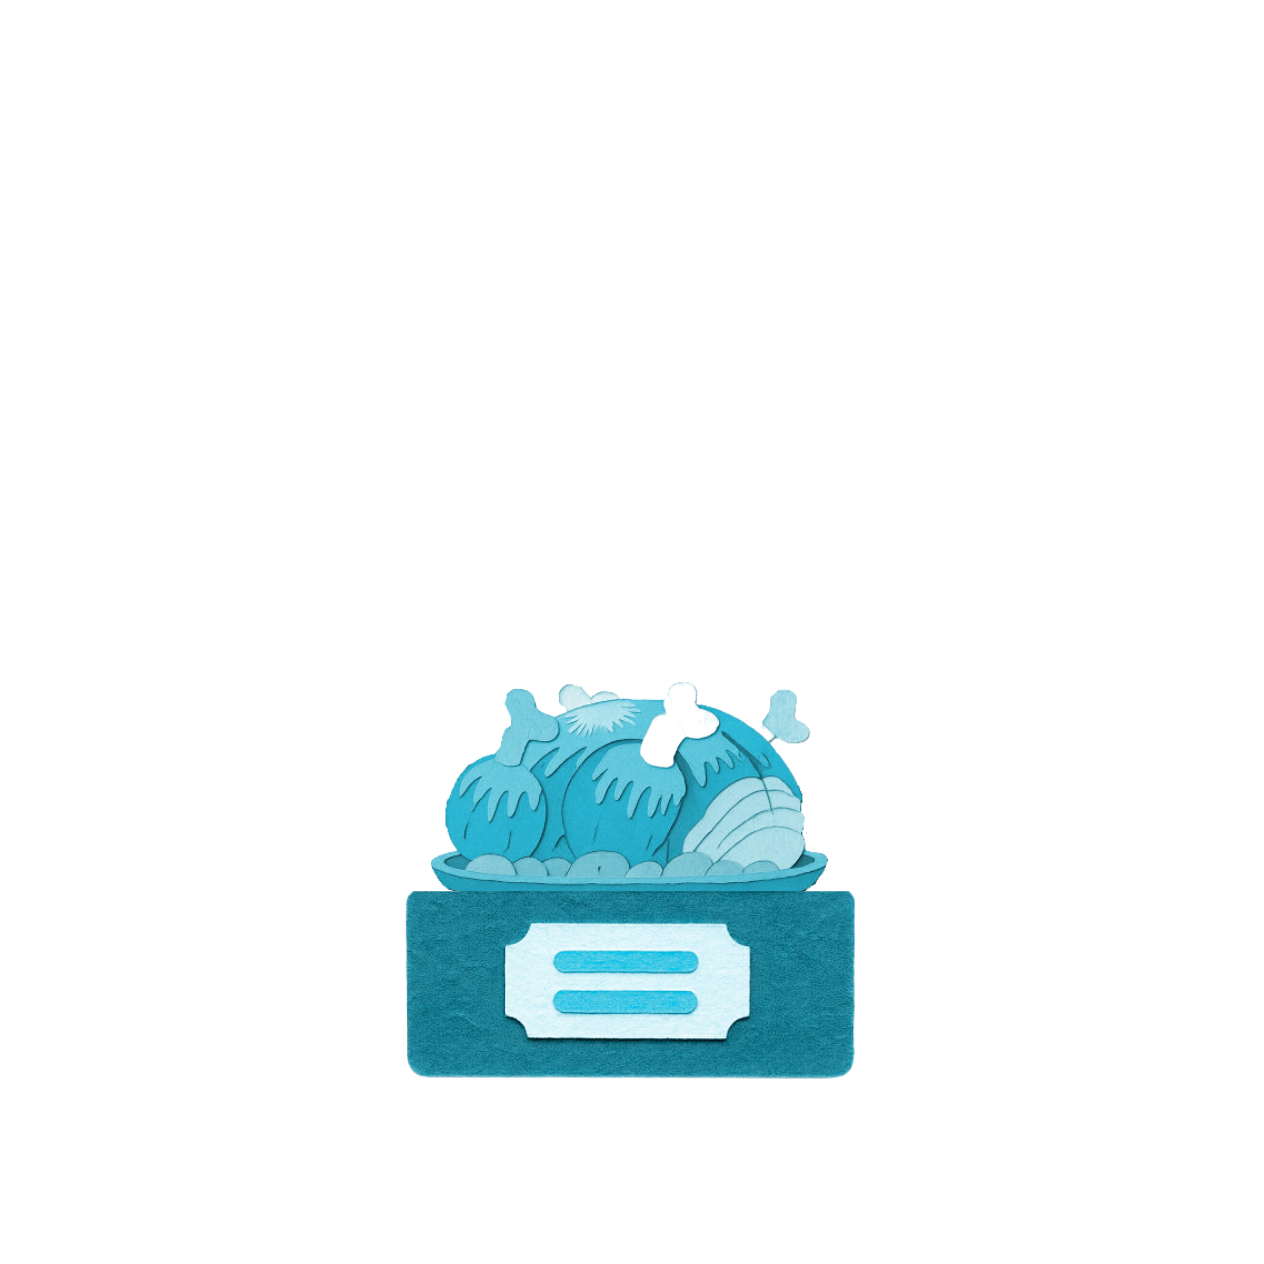
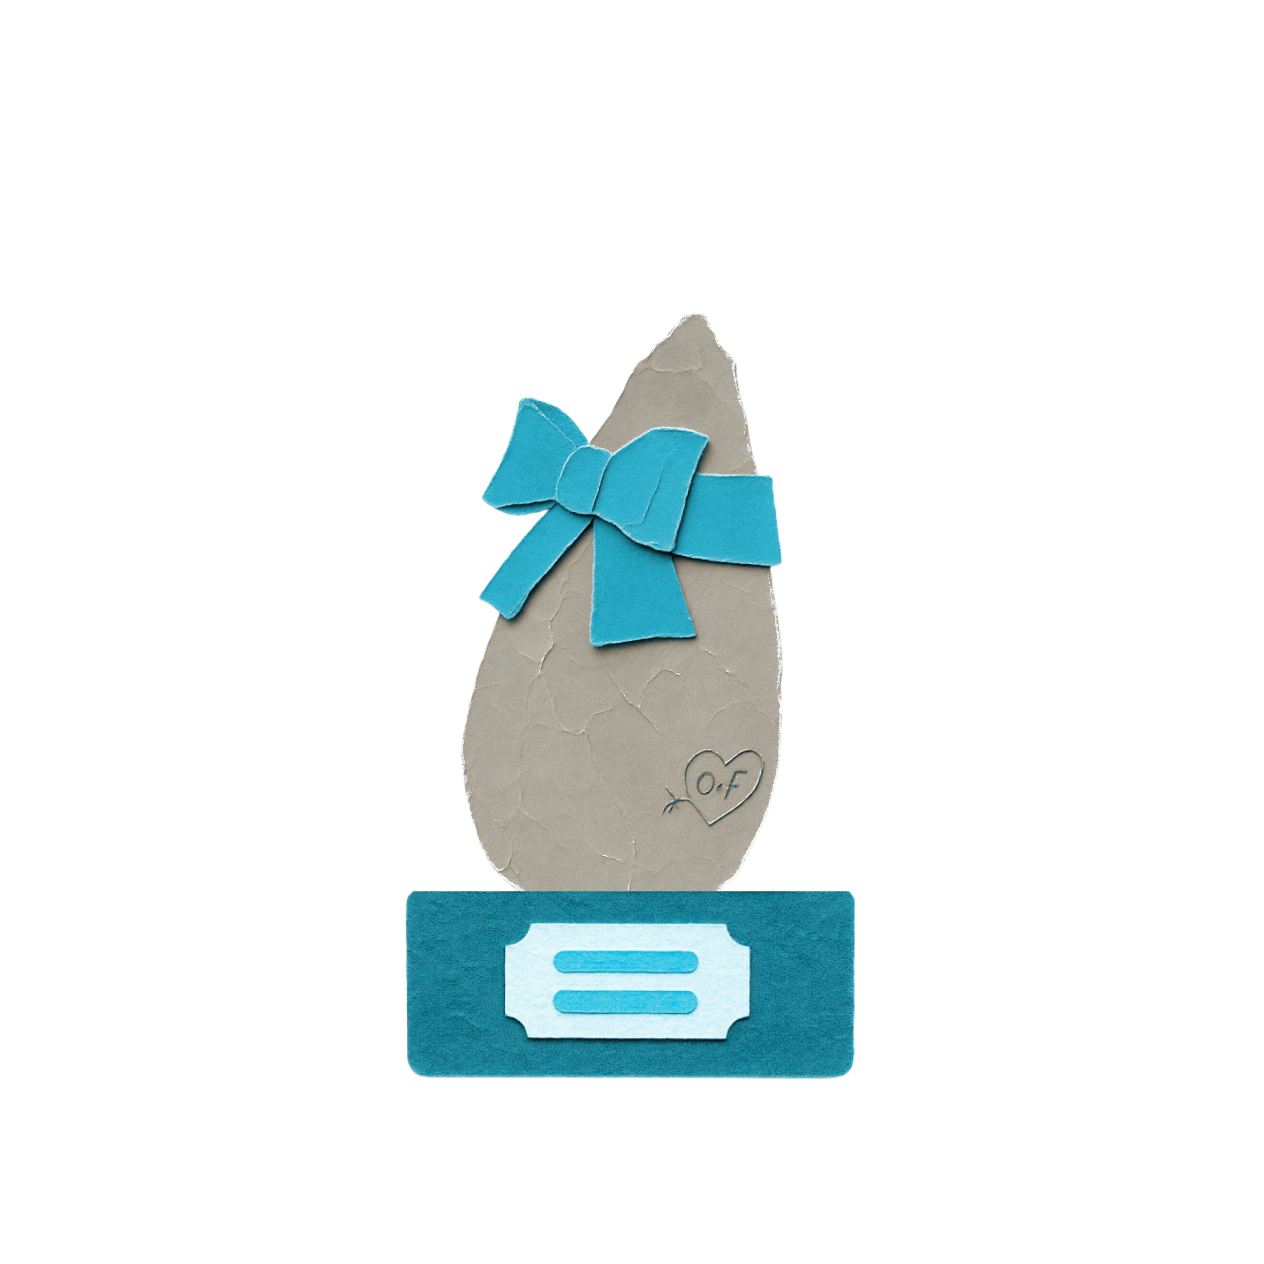
Trophee Gaulois Diamant : nouveau visuel Obelix (menhir). Cache v176.

Changed region(s): [[0.3394, 0.2468, 0.6479, 0.7097]]

diff --git a/service-worker.js b/service-worker.js
@@ -3,7 +3,7 @@
 //   puis rafraichit en background. Prochain reload = nouvelle version.
 // - Requetes cross-origin (Firestore, iNaturalist, xeno-canto, Wikipedia, etc.) : reseau seul.
 // - Bump CACHE_VERSION quand on veut invalider volontairement.
-const CACHE_VERSION = 'v175-2026-09-15-gaulois-emeraude-potion';
+const CACHE_VERSION = 'v176-2026-09-15-gaulois-diamant-obelix';
 const CACHE_NAME = 'lmb-' + CACHE_VERSION;
 
 self.addEventListener('install', (e) => {
